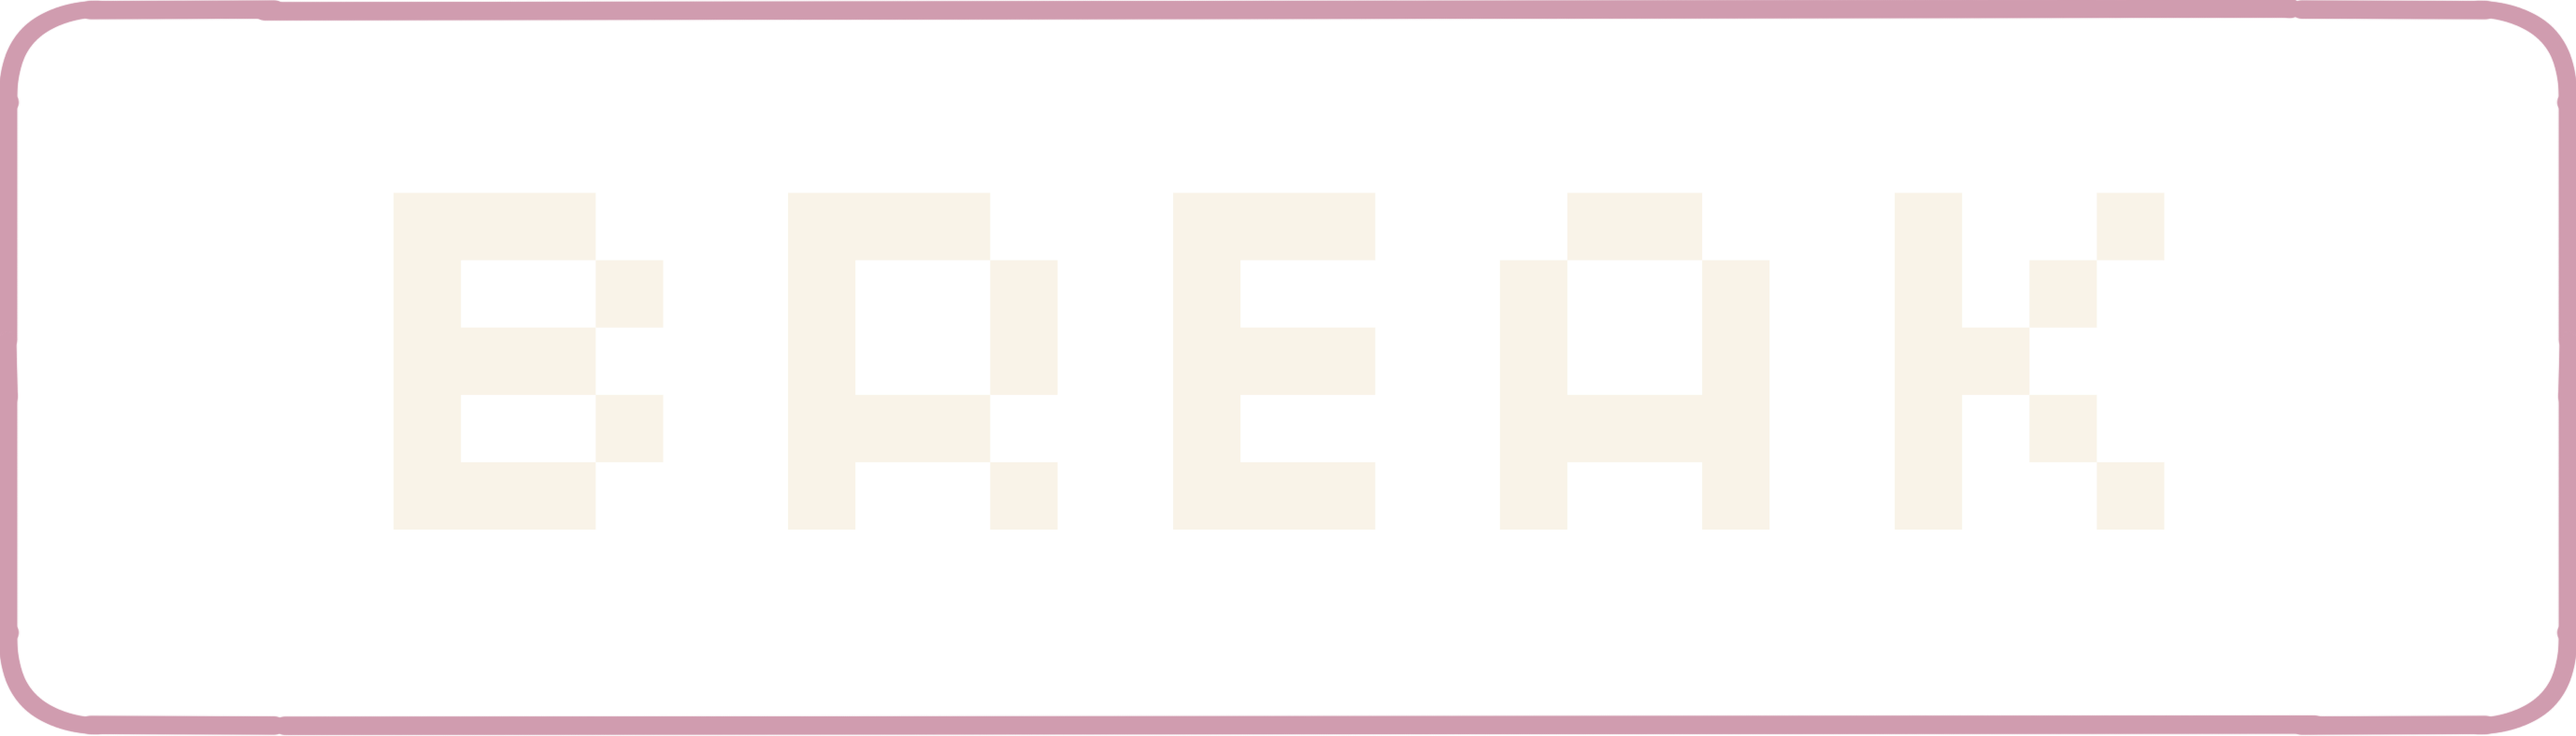
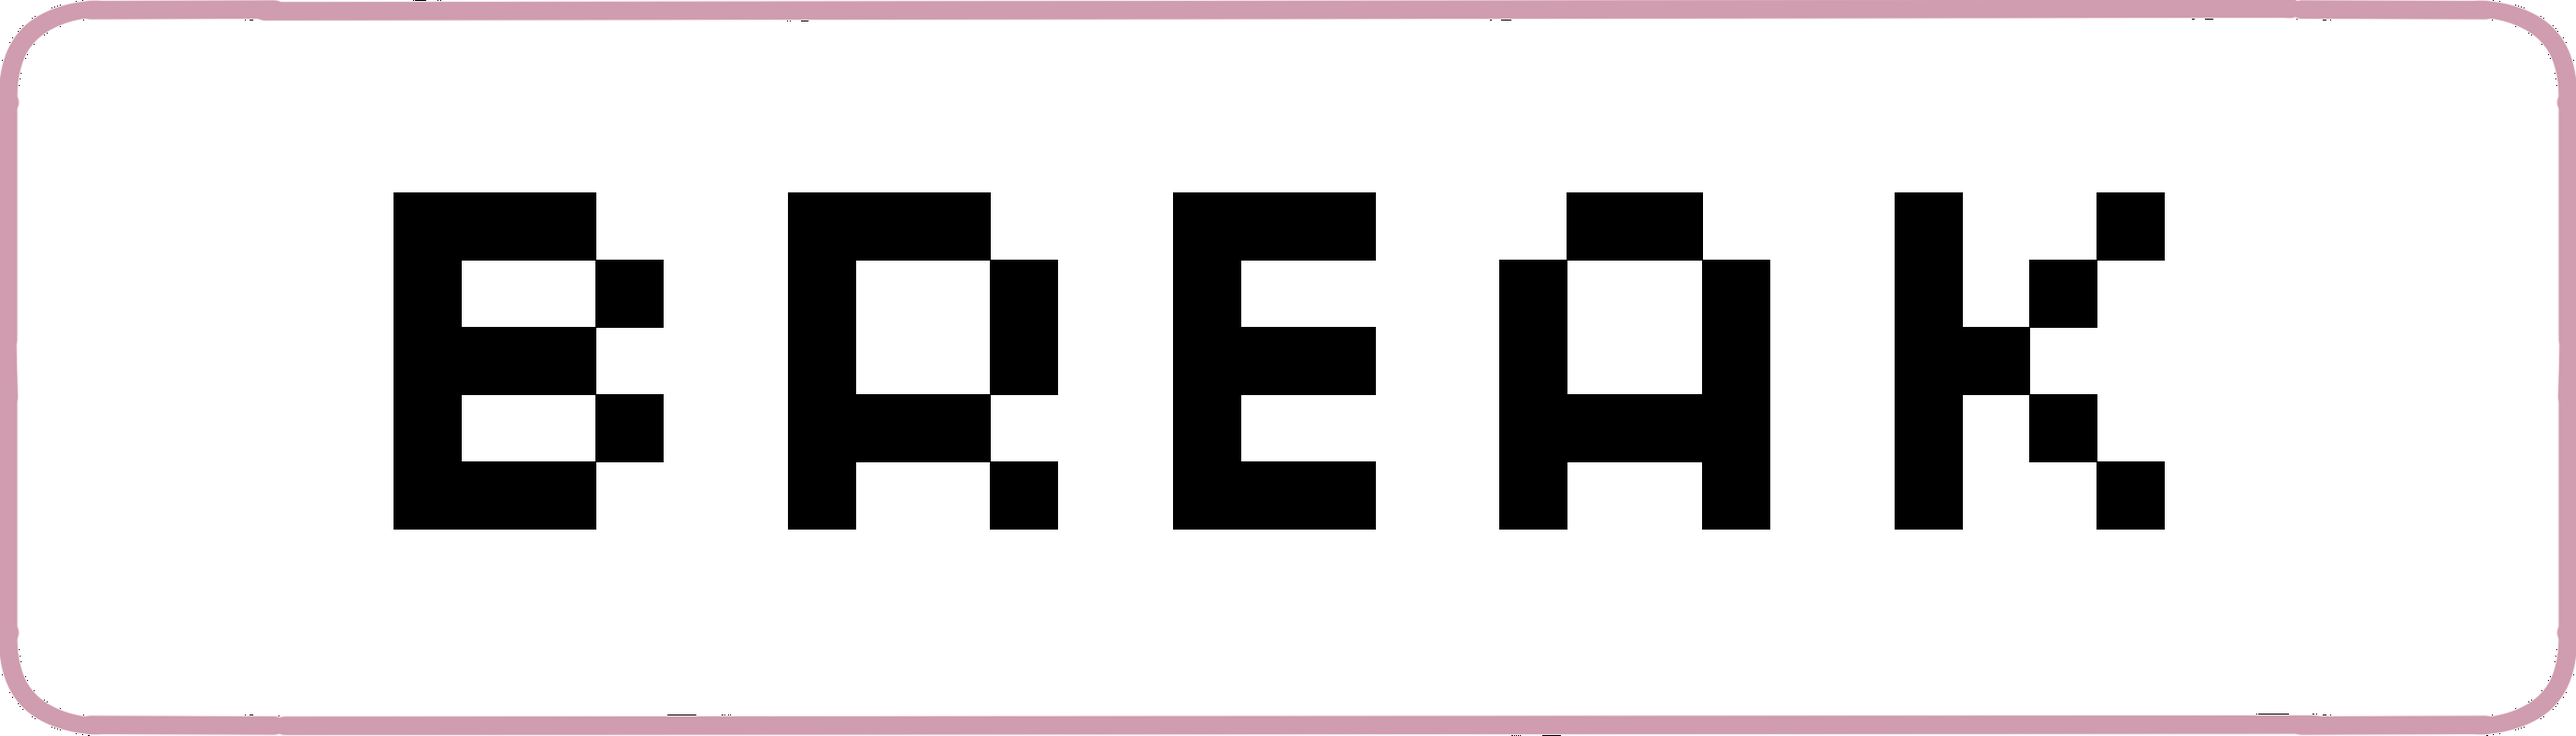
added images for project documentation

Changed region(s): [[0.1248, 0.2437, 0.6865, 0.731], [0.7177, 0.2437, 0.8425, 0.731]]

diff --git a/src/App.css b/src/App.css
@@ -136,6 +136,7 @@ img {
 
 .image-button:active {
   transform: scale(0.98);
+  text-decoration-color: black;
 }
 
 /* ============================================
